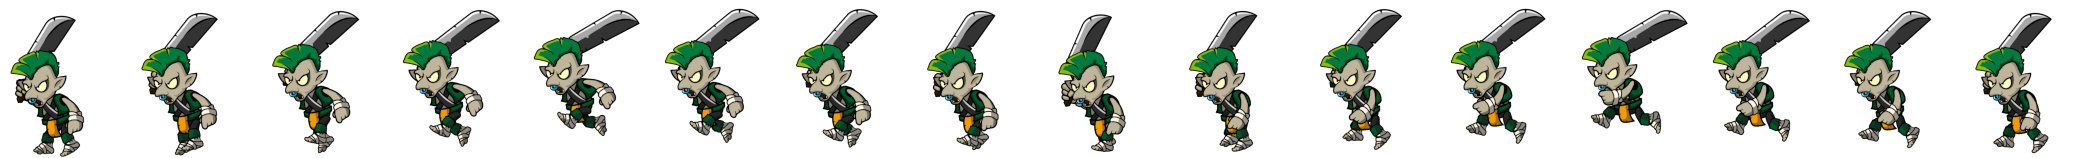
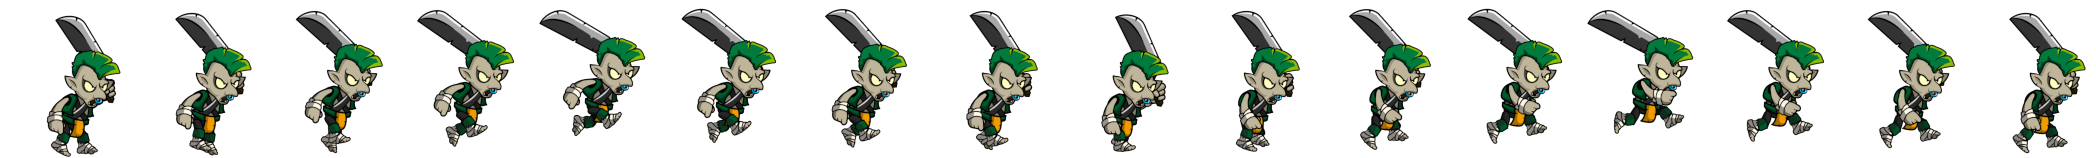
warrior draw 수정 및 충돌 수정

diff --git a/warrior.py b/warrior.py
@@ -29,9 +29,10 @@ class IDLE:
             self.cur_state.enter(self)
 
     @staticmethod
+
     def draw(self):
-        self.warrior_idle.clip_composite_draw(self.idle_size[0] * self.frame, 0, self.idle_size[0], self.idle_size[1],
-                                              0, 'h', self.m_x + 35, self.m_y - 20, self.idle_size[0], self.idle_size[1])
+        self.idle.clip_draw_to_origin(self.idle_size[0] * self.frame, 0, self.idle_size[0], self.idle_size[1],
+                                      self.m_x + 50, self.m_y)
 
 class RUN:
     @staticmethod
@@ -49,8 +50,8 @@ class RUN:
         self.m_x += self.dir_x * 5
         if self.cool_time > 0:
             self.cool_time -= 1
-        if self.m_x > 1200:
-            self.m_x = 1200
+        if self.m_x > 1150:
+            self.m_x = 1150
 
         if self.check_enemy():
             self.cur_state.exit(self)
@@ -62,8 +63,8 @@ class RUN:
 
     @staticmethod
     def draw(self):
-        self.warrior_run.clip_composite_draw(self.run_size[0] * self.frame, 0, self.run_size[0], self.run_size[1],
-                                             0, 'h', self.m_x, self.m_y, self.run_size[0], self.run_size[1])
+        self.run.clip_draw_to_origin(self.run_size[0] * self.frame, 0, self.run_size[0], self.run_size[1],
+                                     self.m_x, self.m_y)
 
 
 class HIT:
@@ -71,7 +72,6 @@ class HIT:
     def enter(self):
         self.dir_x = 0
         self.frame = 0
-        pass
 
     @staticmethod
     def exit(self):
@@ -91,8 +91,8 @@ class HIT:
 
     @staticmethod
     def draw(self):
-        self.warrior_hit.clip_composite_draw(self.hit_size[0] * self.frame, 0, self.hit_size[0], self.hit_size[1],
-                                             0, 'h', self.m_x + 17, self.m_y + 15, self.hit_size[0], self.hit_size[1])
+        self.hit.clip_draw_to_origin(self.hit_size[0] * self.frame, 0, self.hit_size[0], self.hit_size[1],
+                                     self.m_x, self.m_y)
 
 
 class DEAD:
@@ -113,33 +113,37 @@ class DEAD:
 
     @staticmethod
     def draw(self):
-        self.warrior_death.clip_composite_draw(self.death_size[0] * self.frame, 0, self.death_size[0], self.death_size[1],
-                                               0, 'h', self.m_x, self.m_y, self.death_size[0], self.death_size[1])
+        self.death.clip_draw_to_origin(self.death_size[0] * self.frame, 0, self.death_size[0], self.death_size[1],
+                                       self.m_x, self.m_y - 20)
 
+
+# 히트박스 120, 110
+# 충돌지점 -> m_x + 120
 class Warrior(NPC):
-    warrior_idle = None
-    warrior_run = None
-    warrior_hit = None
-    warrior_death = None
-    idle_size = (121, 106)
+    idle = None
+    run = None
+    hit = None
+    death = None
+    idle_size = (122, 106)
     run_size = (131, 158)
     hit_size = (198, 175)
     death_size = (187, 175)
     def __init__(self, i_key):
         # 1층 115  2층 325
         if i_key == 1:
-            super().__init__(90, 115, 5, 50)
+            super().__init__(0, 40, 5, 50)
         elif i_key == 5:
-            super().__init__(90, 325, 5, 50)
+            super().__init__(0, 250, 5, 50)
 
-        if Warrior.warrior_idle == None:
-            self.warrior_idle = load_image('image/warrior_idle.png')
-            self.warrior_run = load_image('image/warrior_run.png')
-            self.warrior_hit = load_image('image/warrior_hit.png')
-            self.warrior_death = load_image('image/warrior_death.png')
+        if Warrior.idle == None:
+            self.idle = load_image('image/warrior_idle.png')
+            self.run = load_image('image/warrior_run.png')
+            self.hit = load_image('image/warrior_hit.png')
+            self.death = load_image('image/warrior_death.png')
+
+        self.hit_box = None
 
         self.cur_state = RUN
-        # self.prev_state = None
         self.cur_state.enter(self)
 
     def update(self):
@@ -150,7 +154,7 @@ class Warrior(NPC):
 
     def check_enemy(self):
         for enemy in game_object[1]:
-            if self.m_x + 50 > enemy.m_x:
+            if self.m_x + 120 > enemy.m_x:
                 return True
         return False
 

diff --git a/enemy_warrior.py b/enemy_warrior.py
@@ -30,7 +30,7 @@ class IDLE:
 
     @staticmethod
     def draw(self):
-        self.warrior_idle.clip_draw_to_origin(self.idle_size[0] * self.frame, 0, self.idle_size[0], self.idle_size[1],
+        self.idle.clip_draw_to_origin(self.idle_size[0] * self.frame, 0, self.idle_size[0], self.idle_size[1],
                                               self.m_x, self.m_y, self.idle_size[0], self.idle_size[1])
 class RUN:
     @staticmethod
@@ -48,8 +48,9 @@ class RUN:
         self.m_x -= self.dir_x * 5
         if self.cool_time > 0:
             self.cool_time -= 1
-        if self.m_x < 100:
-            self.m_x = 100
+        if self.m_x < 50:
+            self.m_x = 50
+            print(self.m_x)
 
         if self.check_enemy():
             self.cur_state.exit(self)
@@ -61,7 +62,7 @@ class RUN:
 
     @staticmethod
     def draw(self):
-        self.warrior_run.clip_draw_to_origin(self.run_size[0] * self.frame, 0, self.run_size[0], self.run_size[1],
+        self.run.clip_draw_to_origin(self.run_size[0] * self.frame, 0, self.run_size[0], self.run_size[1],
                                             self.m_x, self.m_y)
 
 
@@ -90,8 +91,9 @@ class HIT:
 
     @staticmethod
     def draw(self):
-        self.warrior_hit.clip_draw_to_origin(self.hit_size[0] * self.frame, 0, self.hit_size[0], self.hit_size[1],
+        self.hit.clip_draw_to_origin(self.hit_size[0] * self.frame, 0, self.hit_size[0], self.hit_size[1],
                                              self.m_x, self.m_y, self.hit_size[0], self.hit_size[1])
+
 
 class DEAD:
     @staticmethod
@@ -101,7 +103,6 @@ class DEAD:
     @staticmethod
     def exit(self):
         remove_object(self)
-        pass
 
     @staticmethod
     def do(self):
@@ -111,25 +112,26 @@ class DEAD:
 
     @staticmethod
     def draw(self):
-        self.warrior_death.clip_draw_to_origin(self.death_size[0] * self.frame, 0, self.death_size[0], self.death_size[1],
-                                            self.m_x, self.m_y, self.death_size[0], self.death_size[1])
+        self.death.clip_draw_to_origin(self.death_size[0] * self.frame, 0, self.death_size[0], self.death_size[1],
+                                       self.m_x, self.m_y)
 
+# 히트박스 120, 110
 class EnemyWarrior(NPC):
-    warrior_idle = None
+    idle = None
     warrior_run = None
-    warrior_hit = None
-    warrior_death = None
+    hit = None
+    death = None
     idle_size = (120, 108)
     run_size = (123, 113)
     hit_size = (174, 136)
     death_size = (195, 149)
     def __init__(self):
         super().__init__(1200, 40, 10, 70)
-        if EnemyWarrior.warrior_idle == None:
-            self.warrior_idle = load_image('image/Ewarrior_idle.png')
-            self.warrior_run = load_image('image/Ewarrior_run.png')
-            self.warrior_hit = load_image('image/Ewarrior_hit.png')
-            self.warrior_death = load_image('image/Ewarrior_death.png')
+        if EnemyWarrior.idle == None:
+            self.idle = load_image('image/Ewarrior_idle.png')
+            self.run = load_image('image/Ewarrior_run.png')
+            self.hit = load_image('image/Ewarrior_hit.png')
+            self.death = load_image('image/Ewarrior_death.png')
 
         self.cur_state = RUN
         self.cur_state.enter(self)
@@ -141,9 +143,10 @@ class EnemyWarrior(NPC):
         self.cur_state.draw(self)
 
     def check_enemy(self):
+        if self.m_x == 50:
+            return True
         for enemy in game_object[2]:
-            if self.m_x - 50 < enemy.m_x:
+            if self.m_x - 120 < enemy.m_x:
                 return True
-        self.dir_x = 1
         return False
 

diff --git a/play_state.py b/play_state.py
@@ -1,11 +1,4 @@
-back_ground = None
-ladder = None
-floor = None
-castle = None
-mainChar = None
-warrior = None
-e_warrior = None
-time = 0
+
 
 from pico2d import *
 import game_framework
@@ -17,7 +10,9 @@ from back_ground import BackGround
 from floor import Floor
 from ladder import Ladder
 from main_character import MainCharacter
-from enemy_warrior import EnemyWarrior
+
+import warrior
+import enemy_warrior
 
 width = 1280
 height = 720
@@ -26,30 +21,36 @@ bar_height = 124
 col_bar_width = 1730
 col_bar_height = 66
 
-from  warrior import DEAD
-
 def handle_events():
     global mainChar
-    global warrior
     events = get_events()
     for event in events:
         if event.type == SDL_KEYDOWN and event.key == SDLK_ESCAPE:
             game_framework.quit()
         elif event.type == SDL_KEYDOWN and event.key == SDLK_q:
             for war in game_world.game_object[2]:
-                war.cur_state = DEAD
+                war.cur_state.exit(war)
+                war.cur_state = warrior.DEAD
                 war.cur_state.enter(war)
         elif event.type == SDL_KEYDOWN and event.key == SDLK_w:
-            for ewar in game_world.game_object[1]:
-                ewar.state = -1
+            for war in game_world.game_object[1]:
+                war.cur_state.exit(war)
+                war.cur_state = enemy_warrior.DEAD
+                war.cur_state.enter(war)
         else:
             mainChar.handle_event(event)
+
+back_ground = None
+ladder = None
+floor = None
+castle = None
+mainChar = None
+time = 0
 
 # 초기화
 def enter():
     global back_ground, ladder, floor
     global castle
-    global warrior, e_warrior
     global mainChar
     back_ground = BackGround()
     ladder = Ladder()
@@ -76,8 +77,8 @@ def update():
     global time
     time += 1
     if time % 100 == 0:
-        enemy_warrior = EnemyWarrior()
-        game_world.add_object(enemy_warrior, 1)
+        ewarrior = enemy_warrior.EnemyWarrior()
+        game_world.add_object(ewarrior, 1)
     delay(0.03)
 
 def draw_world():
